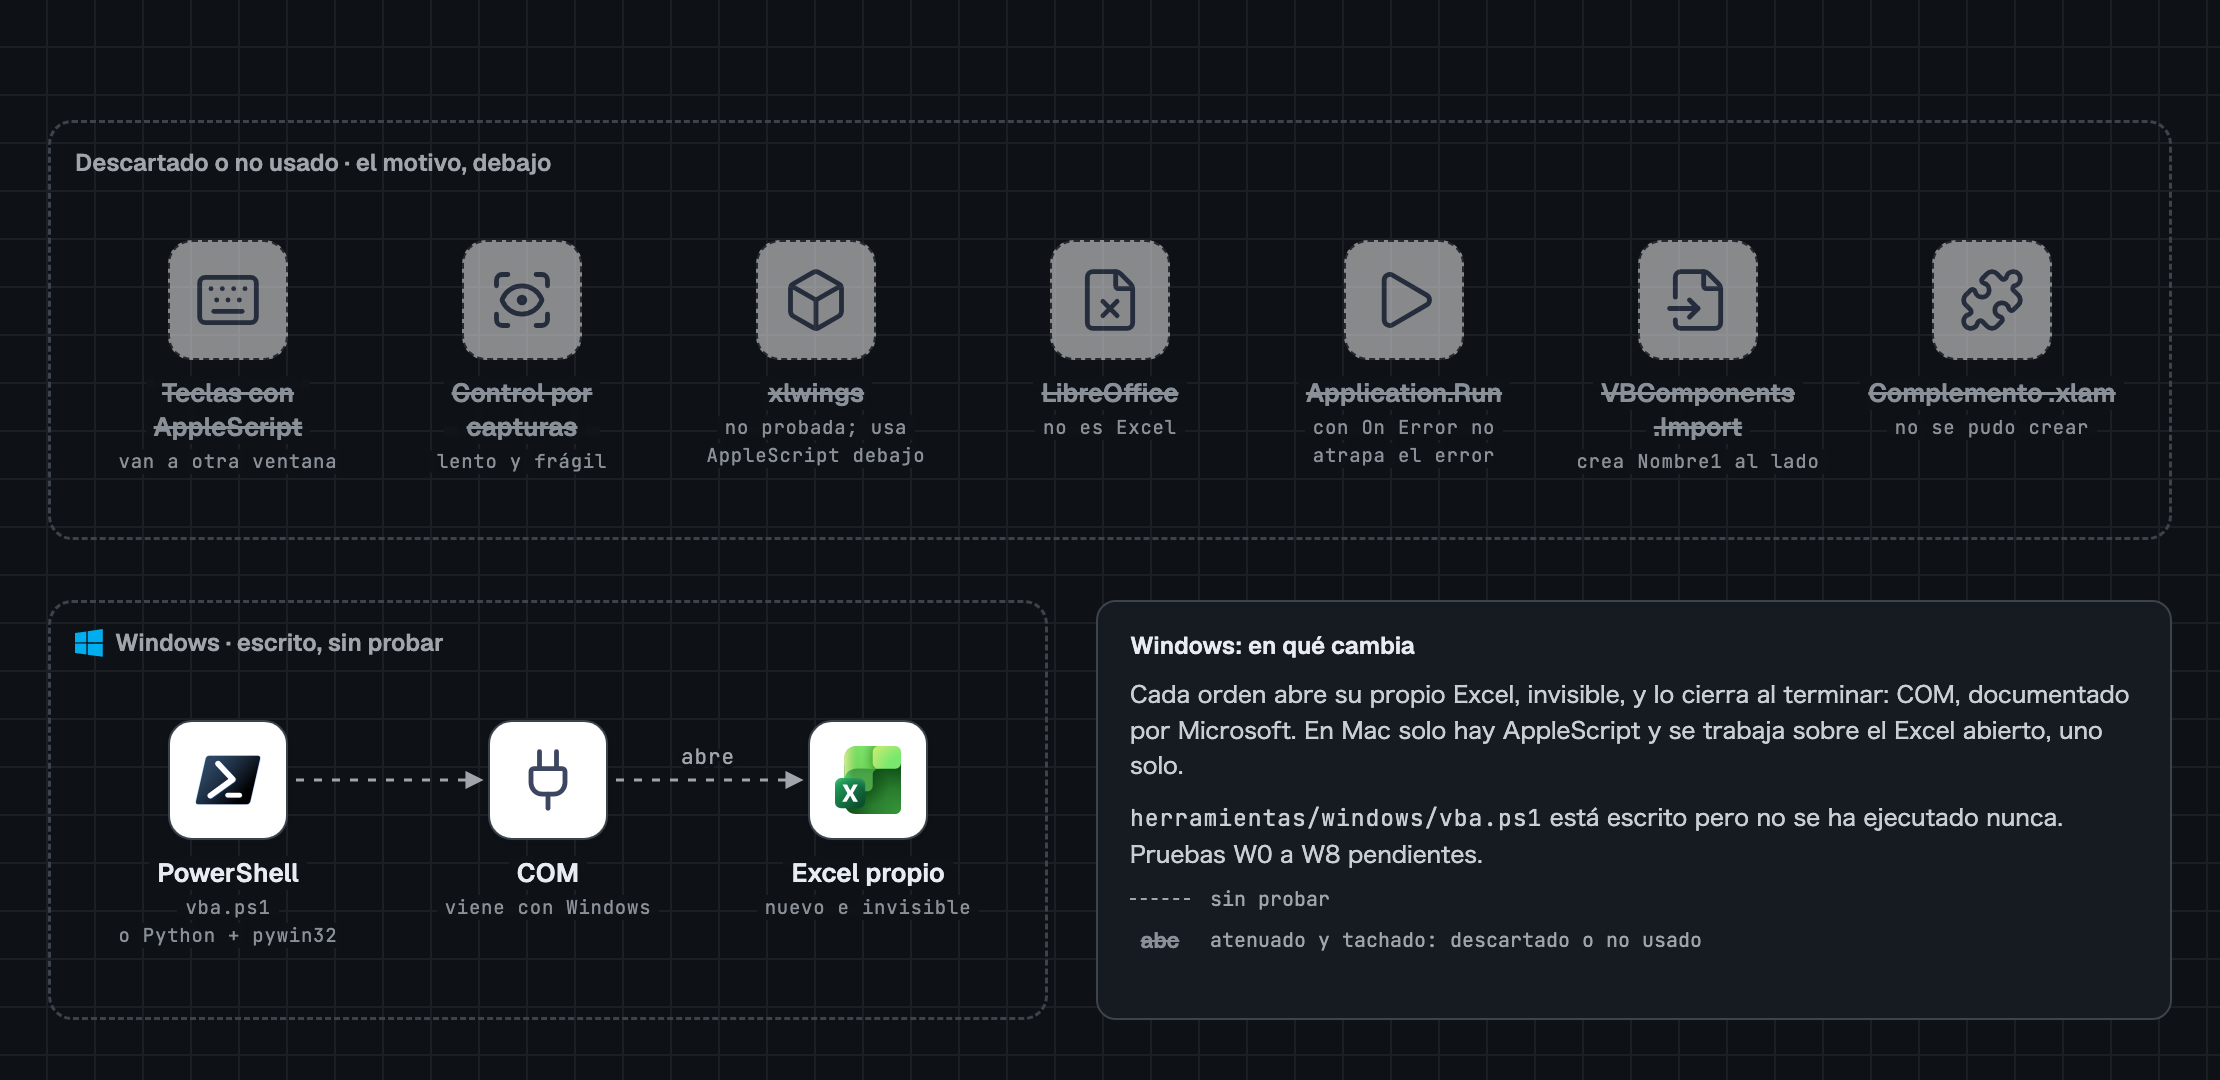
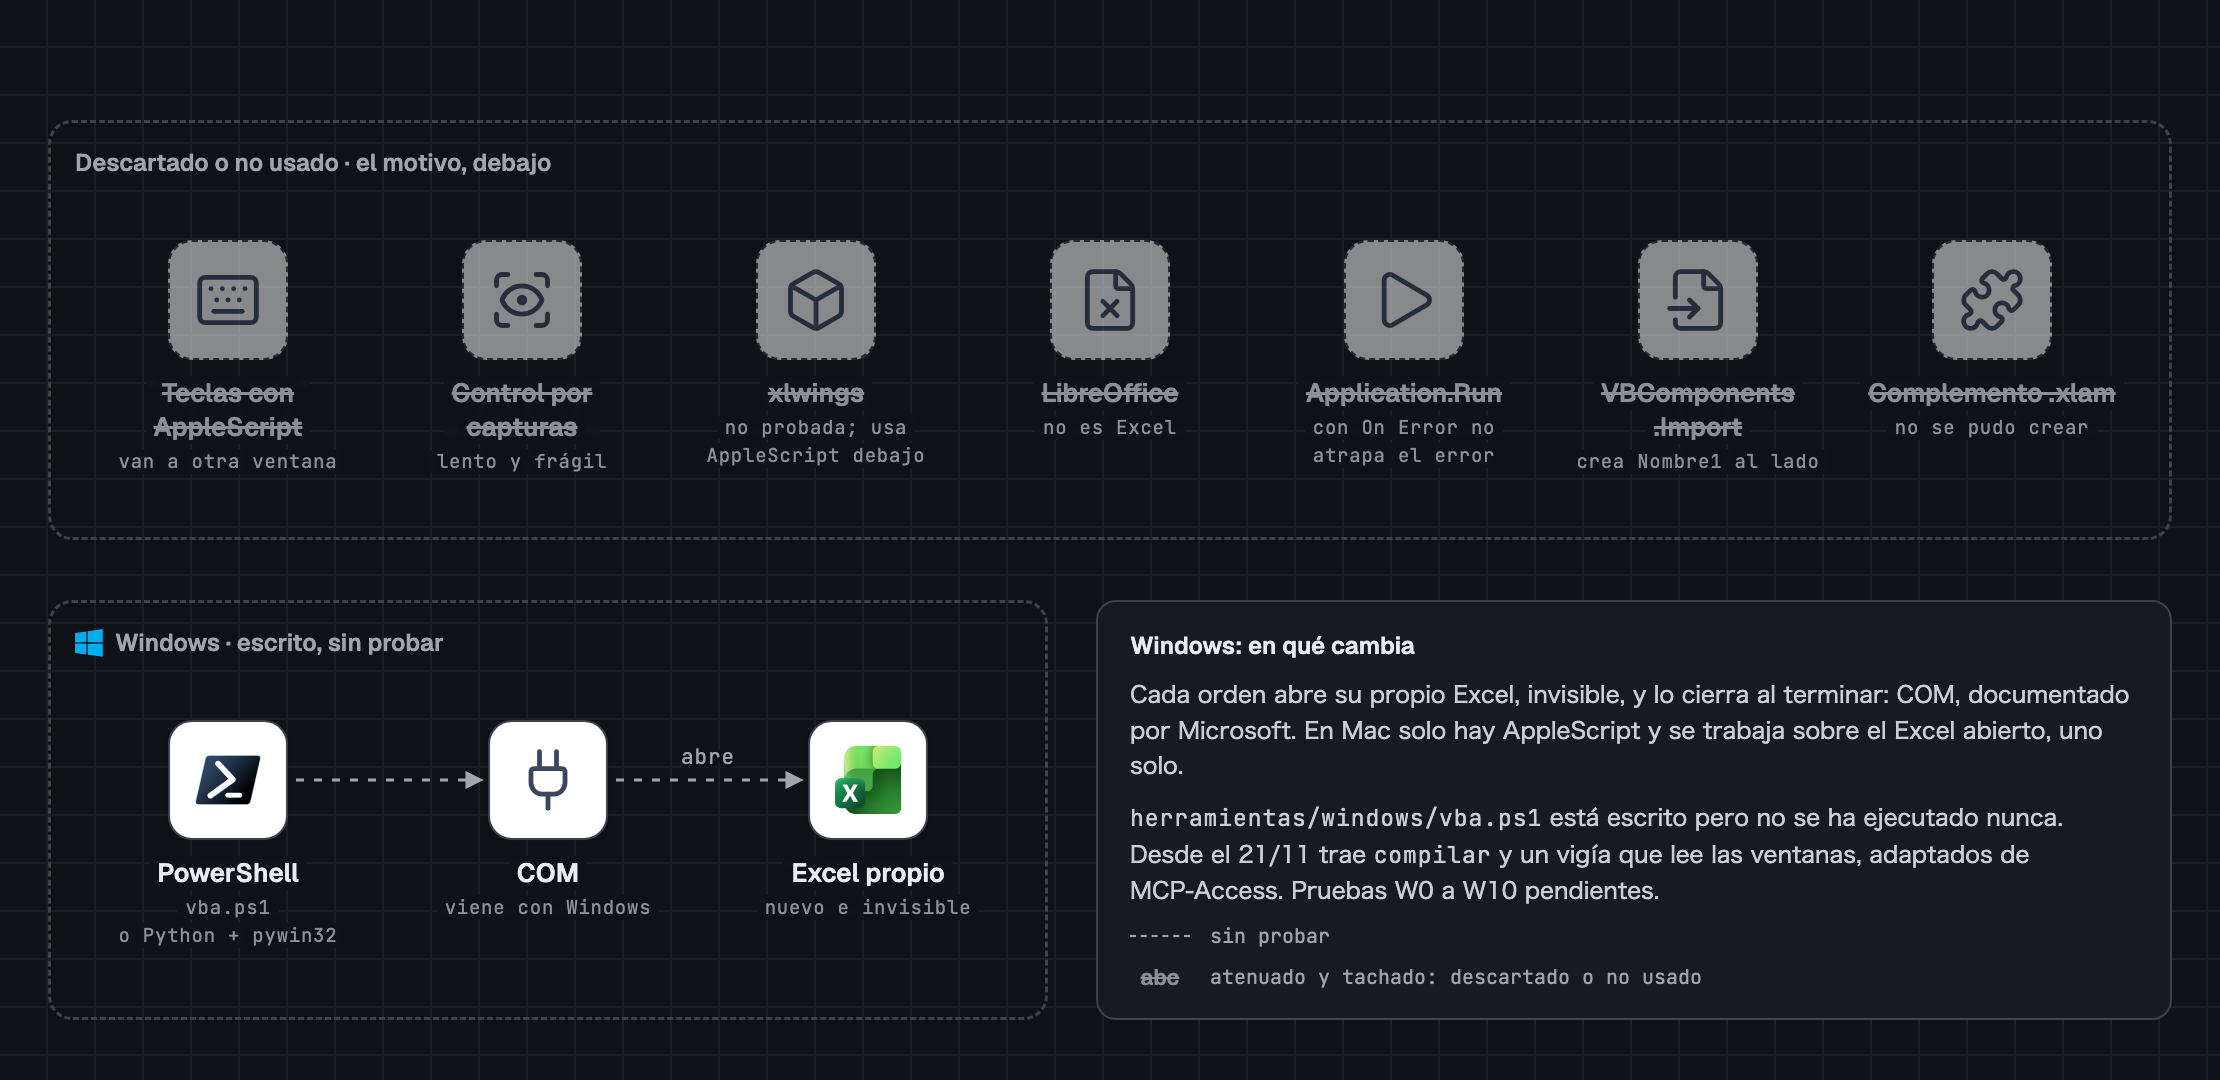
Windows: compilar abre con macros desactivadas; diagrama al dia
- vba.ps1: compilar usa AutomationSecurity ForceDisable, como modulos,
  exportar e importar, para no ejecutar codigo del libro al abrirlo
  (Workbook_Open o funciones VBA en celdas). Hallazgo de la revision de
  seguridad automatica del push anterior. Sigue sin probar.
- docs/06-windows.md: tabla de AutomationSecurity y suposicion de la
  seccion 13 actualizadas.
- diagrama: la nota de Windows menciona compilar, el vigia y W0 a W10;
  HTML y PNG claro y oscuro regenerados.

Changed region(s): [[0.4973, 0.7639, 0.9014, 0.9167]]

diff --git a/diagrama/descartado-windows.html b/diagrama/descartado-windows.html
@@ -193,7 +193,7 @@ svg.edges { position:absolute; inset:0; width:1110px; height:540px; pointer-even
 
   <header class="head">
     <div>
-      <div class="kicker">vba-excel-claude-code / descartado y Windows / 14-11-2026</div>
+      <div class="kicker">vba-excel-claude-code / descartado y Windows / 14-11-2026, act. 21-11-2026</div>
       <h1>Lo que no se usa y la vía Windows</h1>
     </div>
     <p class="lede">Caminos probados o estudiados que no entraron en la solución, y la vía COM de Windows, escrita pero sin probar.</p>
@@ -212,7 +212,7 @@ svg.edges { position:absolute; inset:0; width:1110px; height:540px; pointer-even
     <div class="nota" style="left:548px; top:300px; width:538px; height:210px;">
       <h3>Windows: en qué cambia</h3>
       <p>Cada orden abre su propio Excel, invisible, y lo cierra al terminar: COM, documentado por Microsoft. En Mac solo hay AppleScript y se trabaja sobre el Excel abierto, uno solo.</p>
-      <p style="margin-top:8px"><span class="mono">herramientas/windows/vba.ps1</span> está escrito pero no se ha ejecutado nunca. Pruebas W0 a W8 pendientes.</p>
+      <p style="margin-top:8px"><span class="mono">herramientas/windows/vba.ps1</span> está escrito pero no se ha ejecutado nunca. Desde el 21/11 trae <span class="mono">compilar</span> y un vigía que lee las ventanas, adaptados de <span style="white-space:nowrap">MCP-Access</span>. Pruebas W0 a W10 pendientes.</p>
       <div class="ley"><span class="sw n dash"></span>sin probar</div>
       <div class="ley"><span class="sw tachado">abc</span>atenuado y tachado: descartado o no usado</div>
     </div>

diff --git a/diagrama/fuente-otros.html b/diagrama/fuente-otros.html
@@ -193,7 +193,7 @@ svg.edges { position:absolute; inset:0; width:1110px; height:540px; pointer-even
 
   <header class="head">
     <div>
-      <div class="kicker">vba-excel-claude-code / descartado y Windows / 14-11-2026</div>
+      <div class="kicker">vba-excel-claude-code / descartado y Windows / 14-11-2026, act. 21-11-2026</div>
       <h1>Lo que no se usa y la vía Windows</h1>
     </div>
     <p class="lede">Caminos probados o estudiados que no entraron en la solución, y la vía COM de Windows, escrita pero sin probar.</p>
@@ -212,7 +212,7 @@ svg.edges { position:absolute; inset:0; width:1110px; height:540px; pointer-even
     <div class="nota" style="left:548px; top:300px; width:538px; height:210px;">
       <h3>Windows: en qué cambia</h3>
       <p>Cada orden abre su propio Excel, invisible, y lo cierra al terminar: COM, documentado por Microsoft. En Mac solo hay AppleScript y se trabaja sobre el Excel abierto, uno solo.</p>
-      <p style="margin-top:8px"><span class="mono">herramientas/windows/vba.ps1</span> está escrito pero no se ha ejecutado nunca. Pruebas W0 a W8 pendientes.</p>
+      <p style="margin-top:8px"><span class="mono">herramientas/windows/vba.ps1</span> está escrito pero no se ha ejecutado nunca. Desde el 21/11 trae <span class="mono">compilar</span> y un vigía que lee las ventanas, adaptados de <span style="white-space:nowrap">MCP-Access</span>. Pruebas W0 a W10 pendientes.</p>
       <div class="ley"><span class="sw n dash"></span>sin probar</div>
       <div class="ley"><span class="sw tachado">abc</span>atenuado y tachado: descartado o no usado</div>
     </div>

diff --git a/docs/06-windows.md b/docs/06-windows.md
@@ -111,7 +111,7 @@ Qué significa para un portátil de empresa:
 | PID propio | Compara los `EXCEL.EXE` antes y después de crearla para saber cuál es la nuestra | **[SUPOSICIÓN]**: si otro Excel arranca en el mismo segundo, no se identifica y se avisa |
 | `Visible = $false` | Excel abierto por COM arranca invisible | **[OFICIAL]** KB 288902 (tabla) |
 | `DisplayAlerts = $false` | Quita los avisos de Excel y elige la respuesta por defecto. En código entre procesos no se reactiva solo | **[OFICIAL]** |
-| `AutomationSecurity` | Al abrir por COM, las macros quedan **activadas** por defecto (`msoAutomationSecurityLow`). El script usa `ForceDisable` (3) para `modulos`, `exportar` e `importar`, y `Low` (1) solo para `ejecutar` | **[OFICIAL]** para los valores. **[SUPOSICIÓN]** que con macros apagadas se puede seguir leyendo y escribiendo el VBA |
+| `AutomationSecurity` | Al abrir por COM, las macros quedan **activadas** por defecto (`msoAutomationSecurityLow`). El script usa `ForceDisable` (3) para `modulos`, `exportar`, `importar` y `compilar`, y `Low` (1) solo para `ejecutar` | **[OFICIAL]** para los valores. **[SUPOSICIÓN]** que con macros apagadas se puede seguir leyendo y escribiendo el VBA |
 | `EnableEvents = $false` | Evita que `Workbook_Open` y otros eventos se disparen al abrir. `-Eventos` los activa | **[OFICIAL]** la propiedad. **[SUPOSICIÓN]** que impide `Workbook_Open` al abrir por COM |
 | `Workbooks.Open(ruta, 0, soloLectura)` | Sin actualizar vínculos. Solo lectura para `modulos` y `exportar` | **[OFICIAL]** |
 | `Close($false)` + `Quit()` | Cierra sin guardar y sale. Con `DisplayAlerts = $false`, `Quit` no pregunta | **[OFICIAL]** |
@@ -486,4 +486,6 @@ Suposiciones que hay que comprobar (W6, W9, W10):
 - Que `Execute()` no se bloquea para siempre mientras el aviso está abierto (el vigía lo cierra).
 - Que el botón Compilar se desactiva tras compilar bien. Si no, la orden dirá `SIN VERIFICAR`, nunca un
   `OK` falso.
-- Que `compilar` funciona con las macros activadas (`AutomationSecurity` Low) y los eventos apagados.
+- Que `compilar` funciona con las macros apagadas (`AutomationSecurity` ForceDisable), como `modulos`,
+  `exportar` e `importar`. Se apagan para no ejecutar código del libro al abrirlo (`Workbook_Open` o
+  funciones VBA en celdas al recalcular). Si el editor no compilara así, la orden dirá `SIN VERIFICAR`.
